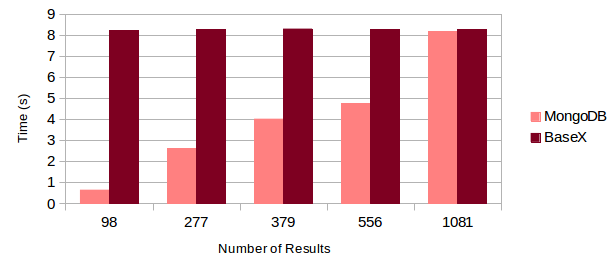
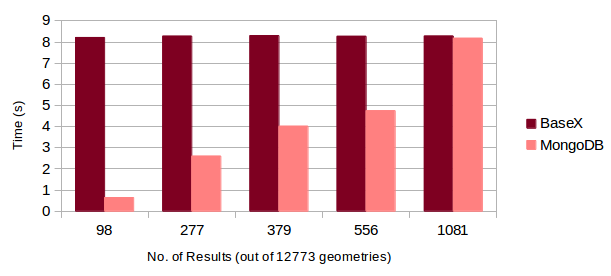
Final summary added. Some pics changed to set the same arrange of BX and Mongo in charts.

diff --git a/writing/Tex/GeoSpatialinBaseX.tex b/writing/Tex/GeoSpatialinBaseX.tex
@@ -1947,6 +1947,26 @@ the simultaneously indexed data in MongoDB. A future improvement is to
 implement a module to give the user the whole control over these two possibilities.
 Besides, we can follow this idea by connection to the other well-known databases.
 
+
+\newpage
+\section{Summary}
+\label{sum}
+In this thesis, we discussed several topics related to the geospatial data processing. As the main focuse, we examined issues related to geospatial features in native XML database BaseX. 
+
+Knowing the geospatial properties and definitions, the first topic that we covered as the most important one, was the geospatial indexing structure. We chose some major indexing structures and their variations which are studied broadly in the literature. Numerous structures are introduced later based on the few ones, such as KD-tree or R-tree. We explained each algorithm together with its pros and cons by collecting the information from various sources. This section as a quick source, provides a perspective of the different structures for future developments in BaseX. As stated in Section~\ref{s.geospatial-index}, each index structure is developed to meet a particular requirement. For Example, dynamic variants of the R-tree are proper for the data which changes frequently. Consequently, a suitable index structure should be chosen based on the system properties and features. However there are numerous publications on this topic, choosing and implementing an index structure is not straightforward. Since the R-tree is a widely used structure, we chose an advanced static variant of the R-tree, STR-tree, to implement a experimental index structure in BaseX. The implementation which is integrated into BaseX is from a well-known open source API, JTS. 
+
+Another topic we discussed in this thesis is the related areas to focus when providing geospatial features.
+To the best of our knowledge, storage and querying are the main topics and we introduced some proposed or implemented ideas. Beside, we explained the geospatial features in some database systems to shows how the implemented ideas work.
+
+
+The Geo Module implementation in BaseX as our focus starts with geospatial functions and proceeds with adding the STR-tree as the index structure. The evaluations demonstrates how the index implementation and other optimizations helped us to follow a better performance.
+
+
+Studying geospatial features of MongoDB, we found that in some cases BaseX outperforms MongoDB and vise versa. Hence, we tried to run the queries which MongoDB provides better performance through a driver. We represented the evaluations which are convincing to follow this approach as a parallel way. 
+As we discussed in Section~\ref{s.future}, the BaseX Geo Module can be expanded by adding the support of other geospatial data formats and an index structure for dynamic data such as Quad-tree. Besides, the idea of connecting to MongoDB can be integrated into BaseX to benefit from the specific index structure and features for GeoJSON.
+
+
+
 \newpage
 \bibliographystyle{plain}
 \bibliography{refs}
